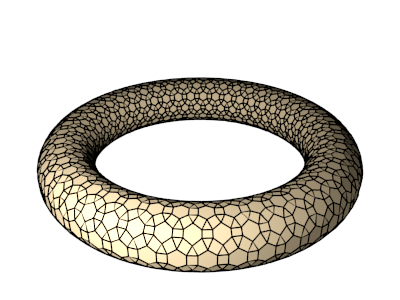
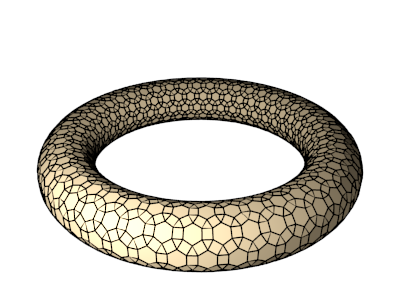
Hot fix: bad math in HexSquareTriTessagon.

diff --git a/tessagon/types/hex_square_tri_tessagon.py b/tessagon/types/hex_square_tri_tessagon.py
@@ -86,7 +86,7 @@ class HexSquareTriTile(Tile):
         v0 = 1.0 - 0.5*v_unit
         v1 = 1.0 - v_unit
         v2 = 0.5 + v_unit
-        v3 = 1.0 - 2.0*v_unit
+        v3 = 0.5 + 0.5*v_unit
 
         # Define top left square, other verts defined through symmetry
         self.add_vert(['top', 'left', 'v_square'], u2, v0)
